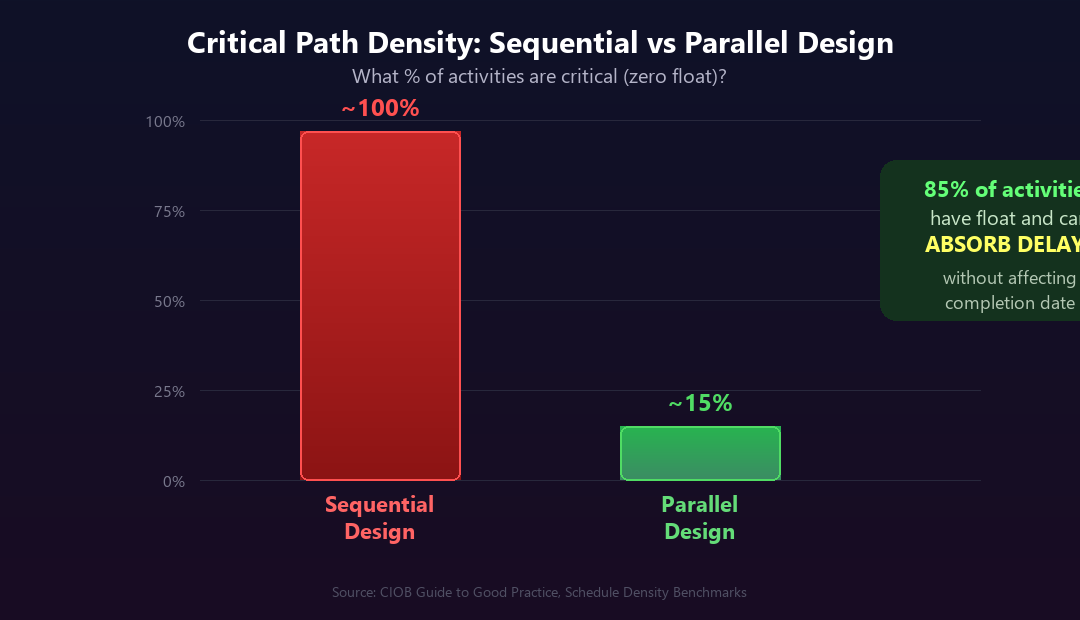
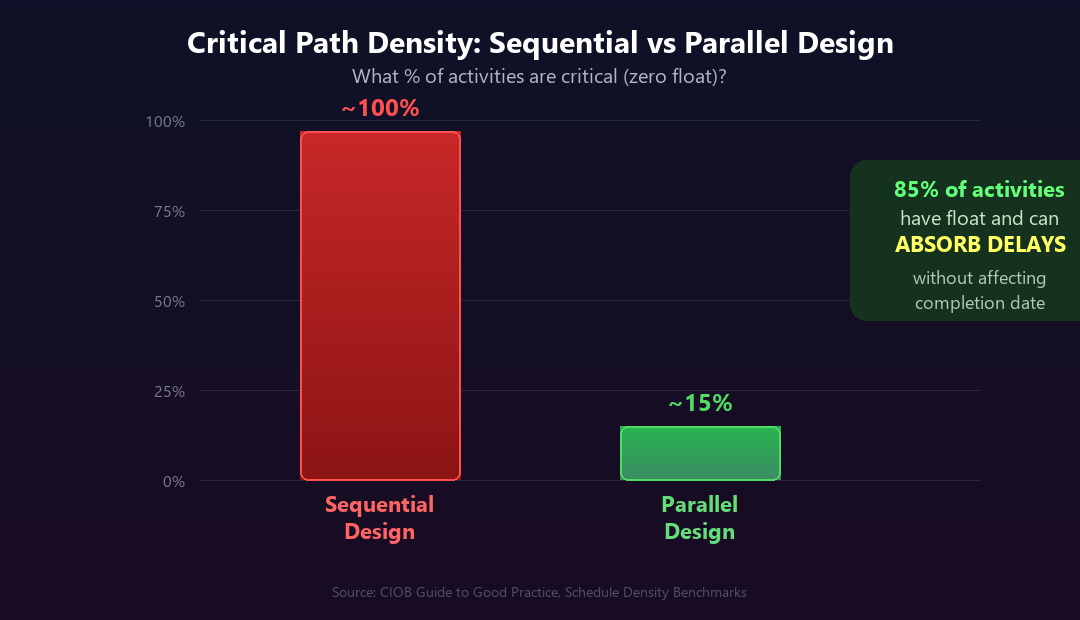
Refine time management article: merge sections, add BESS example, fix chart
- Merged redundant solar farm sections into single stronger narrative
- Added BESS modular thinking section
- Fixed critical path density chart text clipping
- Added engagement question at end
- Tightened section titles and removed repetition

Changed region(s): [[0.7639, 0.2452, 1.0, 0.521]]

diff --git a/blog/time-management-starts-drawing-board.md b/blog/time-management-starts-drawing-board.md
@@ -21,53 +21,29 @@ It means the architect, the concept designer, the person who decided how the pro
 
 ---
 
-## The Moment I Understood This
+## Two Solar Farms That Changed How I Think
 
-Let me tell you about two solar farm projects that changed how I think about scheduling.
+Let me tell you about the moment this principle became real for me.
 
-**Project A** was a 100 MW solar plant where the design forced everything into a strict sequence. Civil works across the entire site had to finish before cable trenching could begin. Cable trenching had to be complete before inverter pad installation. Inverter pads before MV cable pulling. MV cables before transformer energization. One long chain — each phase waiting for the previous one to finish across the entire site.
+**Project A** was a 200 MW solar plant designed as a single contiguous array with one central inverter station and shared civil infrastructure. Clean layout. Efficient cable routing. Looks great on the single-line diagram.
+
+But here's what that design meant for construction: site clearing had to proceed as one continuous operation across 400+ hectares. Pile driving followed a single front. Tracker installation followed the same linear path. Module mounting waited for the structure front to pass. DC cabling followed behind modules. Each phase was gate-kept by the previous one across the ENTIRE site.
 
 When we got a three-week delay on civil works due to unexpected ground conditions in the southern zone, I watched it ripple through the entire schedule like dominoes. Cable trenching delayed three weeks. Inverter installation delayed three weeks. Grid connection pushed back. The whole project slipped — not because of bad scheduling, but because the design gave us no alternative path.
 
-**Project B** was a similar-sized solar plant, but the layout had been designed in four independent blocks. Each block had its own civil works, cable routes, inverter station, and MV connection to a central substation. When we hit the same ground condition issue in Block 3, the other three blocks kept moving. Block 1 was already being energized while Block 3 was still resolving its civil works.
-
-Same type of delay. Completely different outcome.
-
-That was when I started to see it: **the layout IS the schedule.** Everything else is just administration.
-
----
-
-## The Solar Farm That Explains Everything
-
-Let me make this concrete with an example that every renewable energy engineer will recognize.
-
-A developer designs a 200 MW solar farm as a single contiguous array with one central inverter station and shared civil infrastructure across the entire site. Clean layout. Efficient cable routing. Looks great on the single-line diagram.
-
-But here's what that design decision means for construction:
-- Site clearing and grading must proceed as one continuous operation across 400+ hectares
-- Pile driving follows a single front moving across the site
-- Tracker/structure installation follows the same linear path
-- Module mounting waits for the structure front to pass
-- DC cabling follows behind modules
-- Each phase is gate-kept by the previous one across the ENTIRE site
-
-**Every activity depends on the one before it.** One delay anywhere cascades through everything downstream. A three-week hold on pile driving due to rock hits means the entire project pushes three weeks.
-
-Now imagine a different developer designs the same 200 MW plant as **four 50 MW blocks**, each with its own inverter station, independent cable routes, and separate grid connection to a central collector substation:
-- Each block has its own civil works, piling, structure, and cabling crew
-- Module installation in Block A proceeds while Block D is still being piled
-- A delay in Block C's civil works affects only Block C
-- The other three blocks keep moving toward energization
+**Project B** was a similar-sized plant, but the layout had been designed as **four independent 50 MW blocks**, each with its own inverter station, cable routes, and MV connection to a central collector substation. When we hit the same ground condition issue in Block 3, the other three blocks kept moving. Block 1 was already being energized while Block 3 was still resolving its civil works.
 
 **Same capacity. Same site. Same technology. Fundamentally different schedule risk.**
+
+That was when I started to see it: **the layout IS the schedule.** Everything else is just administration.
 
 No amount of Primavera expertise or recovery planning can transform a single-block design into a multi-block design after the piles are in the ground. That ship has sailed. It sailed on the drawing board.
 
 ---
 
-## Wind Farms: Where This Becomes Even More Visible
+## Wind Farms: Where This Becomes Even More Dramatic
 
-If you've worked on wind projects, you've seen this principle play out even more dramatically.
+If you've worked on wind projects, you've seen this principle play out with even higher stakes.
 
 **The sequential trap in wind:** If the foundation design requires ALL foundations to be poured and cured before ANY turbine erection begins — because the crane pad layout creates access dependencies between turbine positions — you're sitting idle with a $200,000/day crane while waiting for concrete to cure on the last foundation. I've seen this happen. It's painful.
 
@@ -81,6 +57,18 @@ On another project, the layout forced a single installation sequence due to cabl
 
 ---
 
+## BESS Projects: A Lesson in Modular Thinking
+
+Battery storage projects are a good counterexample — they naturally lend themselves to parallel construction because of their modular architecture. Each BESS container or rack is essentially an independent unit with its own BMS, thermal management, and DC connection.
+
+But even here, I've seen the sequential trap emerge. On one project, the civil works design placed all BESS containers along a single access road with a shared drainage system. The drainage had to be complete before any container could be placed. A two-week delay on drainage meant every single container placement was pushed back.
+
+On a better-designed project, the BESS yard was split into four quadrants, each with independent drainage, access, and MV connection. When one quadrant had a civil delay, the other three proceeded to container placement and energization.
+
+The principle is universal: **any technology can be designed sequentially or in parallel.** The layout decides which one you get.
+
+---
+
 ## Sequential vs Parallel: The Numbers Don't Lie
 
 ![Critical Path Density](/images/time_critical_path_density.png)
@@ -88,7 +76,7 @@ On another project, the layout forced a single installation sequence due to cabl
 
 ### The Sequential Trap
 
-In a sequential design, activities form a single chain:
+In a sequential solar farm design, activities form a single chain:
 
 **Site Prep → Piling → Structure → Modules → DC Cabling → Inverter → MV Cable → Grid Connection**
 
@@ -127,7 +115,7 @@ That difference — 15% versus 100% critical — is not created by the scheduler
 ![Five Levels of Time-Aware Design](/images/time_five_levels.png)
 *Most renewable energy projects operate at Level 1 or 2. The industry needs to get to Level 4 or 5.*
 
-Based on CIOB principles and what I've observed across solar and wind projects, here's a framework I use to evaluate how "time-aware" a design really is:
+Based on CIOB principles and what I've observed across solar, wind, and BESS projects, here's a framework I use to evaluate how "time-aware" a design really is:
 
 ### Level 1: Time-Blind
 
@@ -143,7 +131,7 @@ A constructability review happens — but only after the layout is frozen for pe
 
 ### Level 4: Designed for Parallel Construction
 
-Construction sequencing is a layout criterion from concept stage. The solar farm is divided into independent blocks with separate inverter stations. The wind farm clusters have independent access and cable routes. When a delay occurs, the PM actually has options — re-sequencing, shifting resources between blocks, or just absorbing it.
+Construction sequencing is a layout criterion from concept stage. The solar farm is divided into independent blocks with separate inverter stations. The wind farm clusters have independent access and cable routes. The BESS yard is split into quadrants. When a delay occurs, the PM actually has options — re-sequencing, shifting resources between blocks, or just absorbing it.
 
 ### Level 5: Integrated Time-Model
 
@@ -186,7 +174,8 @@ The CIOB defines the buildability review as a formal assessment before construct
 For renewable energy projects, this means asking:
 - Does the solar farm layout allow independent block construction, or does the cable routing force a sequential build?
 - Can wind turbine foundations and erection overlap, or do access road dependencies prevent it?
-- Are there physical constraints (wetlands, cultural heritage zones, terrain) that force sequential working in certain areas?
+- Is the BESS yard designed with independent quadrants, or does shared infrastructure create bottlenecks?
+- Are there physical constraints (wetlands, cultural heritage zones, terrain) that force sequential working?
 - Are the required specialized resources (piling rigs, cable jointing crews, HV commissioning teams) available when the schedule demands them?
 
 This review should happen **before EPC tender** — ideally at the end of FEED. Once the EPC contract is signed with a fixed layout, the design is frozen and the programme is contractual. The opportunities for re-sequencing have evaporated.
@@ -216,7 +205,7 @@ Does that sound like any project you've been on?
 
 ---
 
-## Your Schedule Is Not a Bar Chart
+## Your Schedule Is Not a Bar Chart — And Why It Matters
 
 The CIOB deliberately avoids the word "programme" and uses "schedule" instead. This isn't semantics. A "programme" in construction is usually a printed bar chart pinned to the site office wall, updated rarely, showing target dates but no logic. It can't predict consequences of change. It can't identify the critical path. It's a poster, not a tool.
 
@@ -230,9 +219,7 @@ On one solar project, we used the schedule as a real time-model. When a module d
 
 On another project, the "schedule" was an Excel bar chart. When a similar delay hit, nobody could tell which activities were affected downstream. We spent two weeks figuring out the impact manually. By then, the recovery window had closed.
 
-The CIOB puts it sharply:
-
-> *"Progress monitoring without rescheduling the critical path should not be adopted as the sole method of managing time in a complex project."*
+> *"Progress monitoring without rescheduling the critical path should not be adopted as the sole method of managing time in a complex project."* — CIOB
 
 Earned value tells you that you're behind. It doesn't tell you which activities are causing it, whether they're on the critical path, or what happens downstream. Only a living schedule can do that.
 
@@ -273,6 +260,7 @@ On renewable energy projects, the list of things that WILL go wrong is long and 
 - Permit conditions discovered late
 - Crane breakdowns on wind projects
 - Cable jointing failures requiring rework
+- BESS container delivery and BMS integration issues
 
 These are not black swan events. They happen on every project. The only question is: **how resilient is your schedule when they do?**
 
@@ -345,6 +333,10 @@ Design for time. Or pay for it later.
 - The schedule must function as a **dynamic time-model**, not a static bar chart
 - **Five schedule types** should exist across a project lifecycle — most projects only produce one
 - Delays are not exceptional. They happen on every project. **Design for resilience.**
+
+---
+
+What's your experience? Have you worked on a project where the layout locked you into a sequential build — or one where parallel design saved you? I'm genuinely curious to hear from others managing solar, wind, and BESS projects day-to-day. Tell me what you're seeing in the field.
 
 ---
 

diff --git a/public/content/time-management-starts-drawing-board.md b/public/content/time-management-starts-drawing-board.md
@@ -21,53 +21,29 @@ It means the architect, the concept designer, the person who decided how the pro
 
 ---
 
-## The Moment I Understood This
+## Two Solar Farms That Changed How I Think
 
-Let me tell you about two solar farm projects that changed how I think about scheduling.
+Let me tell you about the moment this principle became real for me.
 
-**Project A** was a 100 MW solar plant where the design forced everything into a strict sequence. Civil works across the entire site had to finish before cable trenching could begin. Cable trenching had to be complete before inverter pad installation. Inverter pads before MV cable pulling. MV cables before transformer energization. One long chain — each phase waiting for the previous one to finish across the entire site.
+**Project A** was a 200 MW solar plant designed as a single contiguous array with one central inverter station and shared civil infrastructure. Clean layout. Efficient cable routing. Looks great on the single-line diagram.
+
+But here's what that design meant for construction: site clearing had to proceed as one continuous operation across 400+ hectares. Pile driving followed a single front. Tracker installation followed the same linear path. Module mounting waited for the structure front to pass. DC cabling followed behind modules. Each phase was gate-kept by the previous one across the ENTIRE site.
 
 When we got a three-week delay on civil works due to unexpected ground conditions in the southern zone, I watched it ripple through the entire schedule like dominoes. Cable trenching delayed three weeks. Inverter installation delayed three weeks. Grid connection pushed back. The whole project slipped — not because of bad scheduling, but because the design gave us no alternative path.
 
-**Project B** was a similar-sized solar plant, but the layout had been designed in four independent blocks. Each block had its own civil works, cable routes, inverter station, and MV connection to a central substation. When we hit the same ground condition issue in Block 3, the other three blocks kept moving. Block 1 was already being energized while Block 3 was still resolving its civil works.
-
-Same type of delay. Completely different outcome.
-
-That was when I started to see it: **the layout IS the schedule.** Everything else is just administration.
-
----
-
-## The Solar Farm That Explains Everything
-
-Let me make this concrete with an example that every renewable energy engineer will recognize.
-
-A developer designs a 200 MW solar farm as a single contiguous array with one central inverter station and shared civil infrastructure across the entire site. Clean layout. Efficient cable routing. Looks great on the single-line diagram.
-
-But here's what that design decision means for construction:
-- Site clearing and grading must proceed as one continuous operation across 400+ hectares
-- Pile driving follows a single front moving across the site
-- Tracker/structure installation follows the same linear path
-- Module mounting waits for the structure front to pass
-- DC cabling follows behind modules
-- Each phase is gate-kept by the previous one across the ENTIRE site
-
-**Every activity depends on the one before it.** One delay anywhere cascades through everything downstream. A three-week hold on pile driving due to rock hits means the entire project pushes three weeks.
-
-Now imagine a different developer designs the same 200 MW plant as **four 50 MW blocks**, each with its own inverter station, independent cable routes, and separate grid connection to a central collector substation:
-- Each block has its own civil works, piling, structure, and cabling crew
-- Module installation in Block A proceeds while Block D is still being piled
-- A delay in Block C's civil works affects only Block C
-- The other three blocks keep moving toward energization
+**Project B** was a similar-sized plant, but the layout had been designed as **four independent 50 MW blocks**, each with its own inverter station, cable routes, and MV connection to a central collector substation. When we hit the same ground condition issue in Block 3, the other three blocks kept moving. Block 1 was already being energized while Block 3 was still resolving its civil works.
 
 **Same capacity. Same site. Same technology. Fundamentally different schedule risk.**
+
+That was when I started to see it: **the layout IS the schedule.** Everything else is just administration.
 
 No amount of Primavera expertise or recovery planning can transform a single-block design into a multi-block design after the piles are in the ground. That ship has sailed. It sailed on the drawing board.
 
 ---
 
-## Wind Farms: Where This Becomes Even More Visible
+## Wind Farms: Where This Becomes Even More Dramatic
 
-If you've worked on wind projects, you've seen this principle play out even more dramatically.
+If you've worked on wind projects, you've seen this principle play out with even higher stakes.
 
 **The sequential trap in wind:** If the foundation design requires ALL foundations to be poured and cured before ANY turbine erection begins — because the crane pad layout creates access dependencies between turbine positions — you're sitting idle with a $200,000/day crane while waiting for concrete to cure on the last foundation. I've seen this happen. It's painful.
 
@@ -81,6 +57,18 @@ On another project, the layout forced a single installation sequence due to cabl
 
 ---
 
+## BESS Projects: A Lesson in Modular Thinking
+
+Battery storage projects are a good counterexample — they naturally lend themselves to parallel construction because of their modular architecture. Each BESS container or rack is essentially an independent unit with its own BMS, thermal management, and DC connection.
+
+But even here, I've seen the sequential trap emerge. On one project, the civil works design placed all BESS containers along a single access road with a shared drainage system. The drainage had to be complete before any container could be placed. A two-week delay on drainage meant every single container placement was pushed back.
+
+On a better-designed project, the BESS yard was split into four quadrants, each with independent drainage, access, and MV connection. When one quadrant had a civil delay, the other three proceeded to container placement and energization.
+
+The principle is universal: **any technology can be designed sequentially or in parallel.** The layout decides which one you get.
+
+---
+
 ## Sequential vs Parallel: The Numbers Don't Lie
 
 ![Critical Path Density](/images/time_critical_path_density.png)
@@ -88,7 +76,7 @@ On another project, the layout forced a single installation sequence due to cabl
 
 ### The Sequential Trap
 
-In a sequential design, activities form a single chain:
+In a sequential solar farm design, activities form a single chain:
 
 **Site Prep → Piling → Structure → Modules → DC Cabling → Inverter → MV Cable → Grid Connection**
 
@@ -127,7 +115,7 @@ That difference — 15% versus 100% critical — is not created by the scheduler
 ![Five Levels of Time-Aware Design](/images/time_five_levels.png)
 *Most renewable energy projects operate at Level 1 or 2. The industry needs to get to Level 4 or 5.*
 
-Based on CIOB principles and what I've observed across solar and wind projects, here's a framework I use to evaluate how "time-aware" a design really is:
+Based on CIOB principles and what I've observed across solar, wind, and BESS projects, here's a framework I use to evaluate how "time-aware" a design really is:
 
 ### Level 1: Time-Blind
 
@@ -143,7 +131,7 @@ A constructability review happens — but only after the layout is frozen for pe
 
 ### Level 4: Designed for Parallel Construction
 
-Construction sequencing is a layout criterion from concept stage. The solar farm is divided into independent blocks with separate inverter stations. The wind farm clusters have independent access and cable routes. When a delay occurs, the PM actually has options — re-sequencing, shifting resources between blocks, or just absorbing it.
+Construction sequencing is a layout criterion from concept stage. The solar farm is divided into independent blocks with separate inverter stations. The wind farm clusters have independent access and cable routes. The BESS yard is split into quadrants. When a delay occurs, the PM actually has options — re-sequencing, shifting resources between blocks, or just absorbing it.
 
 ### Level 5: Integrated Time-Model
 
@@ -186,7 +174,8 @@ The CIOB defines the buildability review as a formal assessment before construct
 For renewable energy projects, this means asking:
 - Does the solar farm layout allow independent block construction, or does the cable routing force a sequential build?
 - Can wind turbine foundations and erection overlap, or do access road dependencies prevent it?
-- Are there physical constraints (wetlands, cultural heritage zones, terrain) that force sequential working in certain areas?
+- Is the BESS yard designed with independent quadrants, or does shared infrastructure create bottlenecks?
+- Are there physical constraints (wetlands, cultural heritage zones, terrain) that force sequential working?
 - Are the required specialized resources (piling rigs, cable jointing crews, HV commissioning teams) available when the schedule demands them?
 
 This review should happen **before EPC tender** — ideally at the end of FEED. Once the EPC contract is signed with a fixed layout, the design is frozen and the programme is contractual. The opportunities for re-sequencing have evaporated.
@@ -216,7 +205,7 @@ Does that sound like any project you've been on?
 
 ---
 
-## Your Schedule Is Not a Bar Chart
+## Your Schedule Is Not a Bar Chart — And Why It Matters
 
 The CIOB deliberately avoids the word "programme" and uses "schedule" instead. This isn't semantics. A "programme" in construction is usually a printed bar chart pinned to the site office wall, updated rarely, showing target dates but no logic. It can't predict consequences of change. It can't identify the critical path. It's a poster, not a tool.
 
@@ -230,9 +219,7 @@ On one solar project, we used the schedule as a real time-model. When a module d
 
 On another project, the "schedule" was an Excel bar chart. When a similar delay hit, nobody could tell which activities were affected downstream. We spent two weeks figuring out the impact manually. By then, the recovery window had closed.
 
-The CIOB puts it sharply:
-
-> *"Progress monitoring without rescheduling the critical path should not be adopted as the sole method of managing time in a complex project."*
+> *"Progress monitoring without rescheduling the critical path should not be adopted as the sole method of managing time in a complex project."* — CIOB
 
 Earned value tells you that you're behind. It doesn't tell you which activities are causing it, whether they're on the critical path, or what happens downstream. Only a living schedule can do that.
 
@@ -273,6 +260,7 @@ On renewable energy projects, the list of things that WILL go wrong is long and 
 - Permit conditions discovered late
 - Crane breakdowns on wind projects
 - Cable jointing failures requiring rework
+- BESS container delivery and BMS integration issues
 
 These are not black swan events. They happen on every project. The only question is: **how resilient is your schedule when they do?**
 
@@ -345,6 +333,10 @@ Design for time. Or pay for it later.
 - The schedule must function as a **dynamic time-model**, not a static bar chart
 - **Five schedule types** should exist across a project lifecycle — most projects only produce one
 - Delays are not exceptional. They happen on every project. **Design for resilience.**
+
+---
+
+What's your experience? Have you worked on a project where the layout locked you into a sequential build — or one where parallel design saved you? I'm genuinely curious to hear from others managing solar, wind, and BESS projects day-to-day. Tell me what you're seeing in the field.
 
 ---
 
